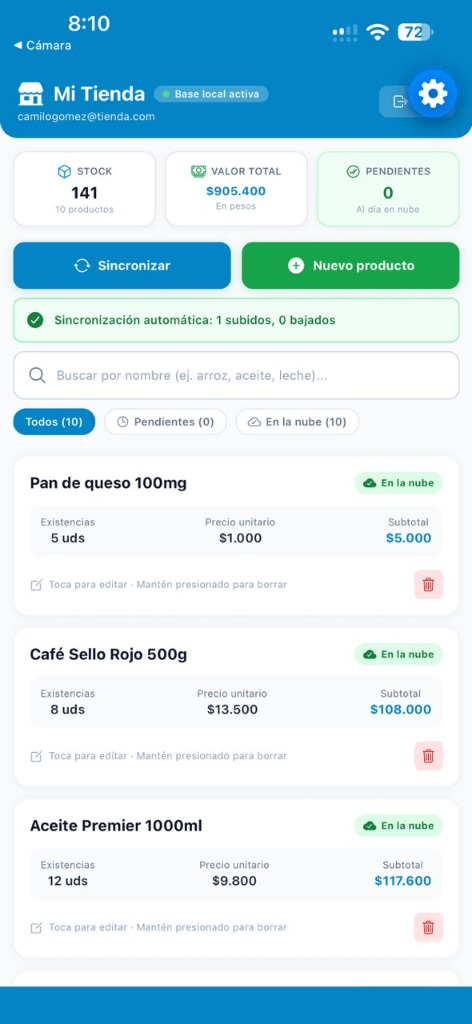
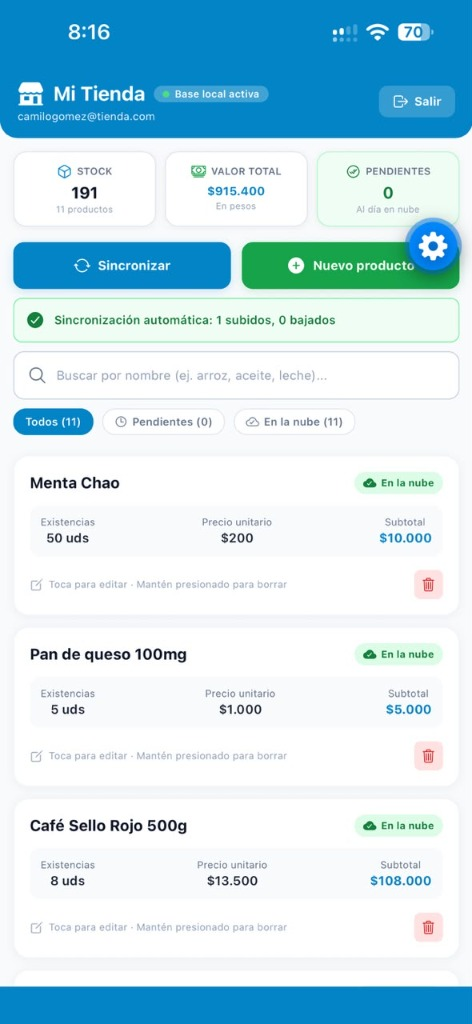
Docs: Completar las 7 capturas del parcial y diagrama en README.md

diff --git a/README.md b/README.md
@@ -88,16 +88,19 @@ Pantalla de edición del producto "Café Sello Rojo 500g" con recálculo dinámi
 ![Formulario](capturas/04-formulario.png)
 
 ### 05. Producto creado en modo avión (`05-sin-conexion.png`)
-Demostración de funcionamiento sin conexión con producto pendiente de subida.
+Demostración de funcionamiento local offline: teléfono con modo avión activo, el producto **"Menta Chao"** (50 uds, $200) creado en la base SQLite local, marcado con la insignia amarilla `● Pendiente`, el indicador superior marcando `Pendientes: 1 (Por respaldar)` y la barra inferior avisando que no hay conexión sin interrumpir la operación del usuario.
 ![Sin Conexión](capturas/05-sin-conexion.png)
 
 ### 06. Pantalla principal después de sincronizar con resultado (`06-sincronizado.png`)
-Muestra la sincronización automática al recuperar la conectividad, con el mensaje descriptivo `"Sincronización automática: 1 subidos, 0 bajados"`, el producto "Pan de queso 100mg" subido a la nube y los totales actualizados (141 uds / $905.400 pesos).
+Muestra la recuperación automática de conectividad: el mensaje descriptivo verde `"Sincronización automática: 1 subidos, 0 bajados"`, el producto **"Menta Chao"** actualizado con la insignia verde `● En la nube`, el contador de pendientes restablecido a 0 y los totales consolidados (191 uds / $915.400 pesos).
 ![Sincronizado](capturas/06-sincronizado.png)
 
 ### 07. Panel de Supabase con la tabla products (`07-supabase.png`)
-Tabla `products` en la consola de Supabase respaldando las filas sincronizadas.
+Consola de Supabase en la sección *Table Editor / Database Tables*, evidenciando la tabla `products` con sus 8 columnas estructuradas (`id`, `user_id`, `client_id`, `name`, `quantity`, `price`, `updated_at`, `created_at`), llave primaria autoincremental y clave foránea enlazada a `auth.users`.
 ![Supabase](capturas/07-supabase.png)
+
+#### Diagrama de relaciones en Supabase:
+![Supabase Schema](capturas/07-supabase-schema.png)
 
 ---
 
